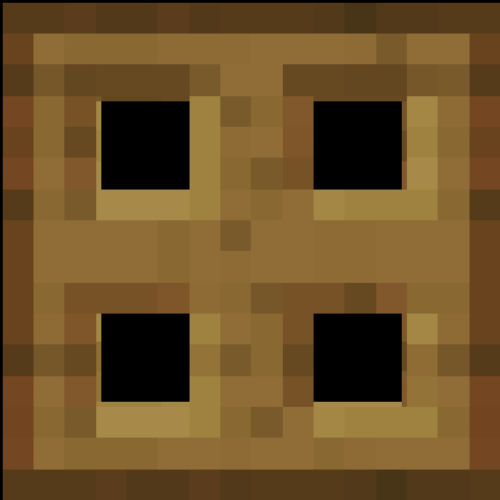
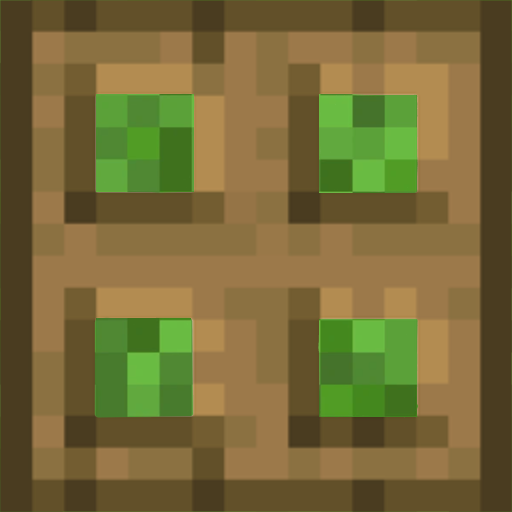
feat: open door added

diff --git a/client/src/app/services/map-editor-services/map-editor-manager.service.ts b/client/src/app/services/map-editor-services/map-editor-manager.service.ts
@@ -11,11 +11,13 @@ import { Totem } from '@app/classes/Items/totem';
 import { DoorTile } from '@app/classes/Tiles/door-tile';
 import { GrassTile } from '@app/classes/Tiles/grass-tile';
 import { IceTile } from '@app/classes/Tiles/ice-tile';
+import { OpenDoor } from '@app/classes/Tiles/open-door';
 import { TerrainTile } from '@app/classes/Tiles/terrain-tile';
 import { Tile } from '@app/classes/Tiles/tile';
 import { WallTile } from '@app/classes/Tiles/wall-tile';
 import { WaterTile } from '@app/classes/Tiles/water-tile';
 import { PlaceableEntity, VisibleState } from '@app/interfaces/placeable-entity';
+import { TileType } from '@common/enums/tile-type';
 import { GameMapDataManagerService } from '../game-board-services/game-map-data-manager.service';
 import { ItemFactoryService } from '../game-board-services/item-factory.service';
 import { TileFactoryService } from '../game-board-services/tile-factory.service';
@@ -116,6 +118,7 @@ export class MapEditorManagerService {
     tileCopyCreator(copiedTile: Tile, selectedTile: Tile) {
         let tileCopy = this.tileFactoryService.copyFromTile(copiedTile);
         tileCopy.coordinates = { x: selectedTile.coordinates.x, y: selectedTile.coordinates.y };
+        console.log('tileCopy', tileCopy.description);
         if ((selectedTile as TerrainTile)?.item) {
             let foundItem = (selectedTile as TerrainTile).item ? (this.sideMenuItemFinder((selectedTile as TerrainTile).item!) as Item | null) : null;
             if (this.gameMapDataManagerService.isTerrainTile(selectedTile) && this.gameMapDataManagerService.isTerrainTile(tileCopy)) {
@@ -159,7 +162,17 @@ export class MapEditorManagerService {
     leftClickMapTile(entity: Tile) {
         this.isDraggingLeft = true;
         if (!this.sideMenuSelectedEntity) return;
-        if (entity.type === (this.sideMenuSelectedEntity as Tile)?.type) return;
+        if (entity.type === (this.sideMenuSelectedEntity as Tile)?.type && entity.type !== TileType.Door && entity.type !== TileType.OpenDoor) return;
+        if (this.gameMapDataManagerService.isDoor(entity) && this.gameMapDataManagerService.isDoor(this.sideMenuSelectedEntity as Tile)) {
+            if (entity instanceof DoorTile) {
+                console.log('DoorTile');
+                this.tileCopyCreator(new OpenDoor(), entity);
+                return;
+            } else if (entity instanceof OpenDoor) {
+                this.tileCopyCreator(new DoorTile(), entity);
+                return;
+            }
+        }
 
         if (this.gameMapDataManagerService.isItem(this.sideMenuSelectedEntity) && this.gameMapDataManagerService.isTerrainTile(entity)) {
             this.itemPlacer(this.sideMenuSelectedEntity, entity);
@@ -208,7 +221,6 @@ export class MapEditorManagerService {
         if (this.sideMenuSelectedEntity) {
             this.sideMenuSelectedEntity.visibleState = VisibleState.notSelected;
         }
-        this.sideMenuSelectedEntity = null;
     }
 
     onMouseDownSideMenu(entity: PlaceableEntity) {

diff --git a/client/src/app/services/game-board-services/game-map-data-manager.service.ts b/client/src/app/services/game-board-services/game-map-data-manager.service.ts
@@ -6,6 +6,7 @@ import { Tile } from '@app/classes/Tiles/tile';
 import { PlaceableEntity } from '@app/interfaces/placeable-entity';
 import { GameMode } from '@common/enums/game-mode';
 import { MapSize } from '@common/enums/map-size';
+import { TileType } from '@common/enums/tile-type';
 import { GameShared } from '@common/interfaces/game-shared';
 import { GameServerCommunicationService } from '../game-server-communication.service';
 import { ItemFactoryService } from './item-factory.service';
@@ -145,5 +146,9 @@ export class GameMapDataManagerService {
 
     isItem(placeableEntity: PlaceableEntity): placeableEntity is Item {
         return (placeableEntity as Item).testItem !== undefined;
+    }
+
+    isDoor(tile: Tile): boolean {
+        return tile.type === TileType.Door || tile.type === TileType.OpenDoor;
     }
 }

diff --git a/client/src/app/services/game-board-services/tile-factory.service.ts b/client/src/app/services/game-board-services/tile-factory.service.ts
@@ -2,6 +2,7 @@ import { Injectable } from '@angular/core';
 import { DoorTile } from '@app/classes/Tiles/door-tile';
 import { GrassTile } from '@app/classes/Tiles/grass-tile';
 import { IceTile } from '@app/classes/Tiles/ice-tile';
+import { OpenDoor } from '@app/classes/Tiles/open-door';
 import { Tile } from '@app/classes/Tiles/tile';
 import { WallTile } from '@app/classes/Tiles/wall-tile';
 import { WaterTile } from '@app/classes/Tiles/water-tile';
@@ -25,6 +26,8 @@ export class TileFactoryService {
                 return new WallTile();
             case TileType.Door:
                 return new DoorTile();
+            case TileType.OpenDoor:
+                return new OpenDoor();
             default:
                 return new Tile();
         }

diff --git a/client/src/app/classes/Tiles/open-door.spec.ts b/client/src/app/classes/Tiles/open-door.spec.ts
@@ -1,0 +1,16 @@
+import { TestBed } from '@angular/core/testing';
+
+import { OpenDoor } from './open-door';
+
+describe('OpenDoor', () => {
+    let service: OpenDoor;
+
+    beforeEach(() => {
+        TestBed.configureTestingModule({});
+        service = TestBed.inject(OpenDoor);
+    });
+
+    it('should be created', () => {
+        expect(service).toBeTruthy();
+    });
+});

diff --git a/client/src/app/classes/Tiles/open-door.ts b/client/src/app/classes/Tiles/open-door.ts
@@ -1,0 +1,12 @@
+import { Injectable } from '@angular/core';
+import { TileType } from '@common/enums/tile-type';
+import { Tile } from './tile';
+
+@Injectable({
+    providedIn: 'root',
+})
+export class OpenDoor extends Tile {
+    type: TileType = TileType.OpenDoor;
+    description: string = 'Porte Ouverte';
+    imageUrl: string = 'assets/images/tiles/open-door.png';
+}

diff --git a/common/enums/tile-type.ts b/common/enums/tile-type.ts
@@ -4,4 +4,5 @@ export enum TileType {
     Ice = 'Ice',
     Door = 'Door',
     Wall = 'Wall',
+    OpenDoor = 'OpenDoor',
 }
